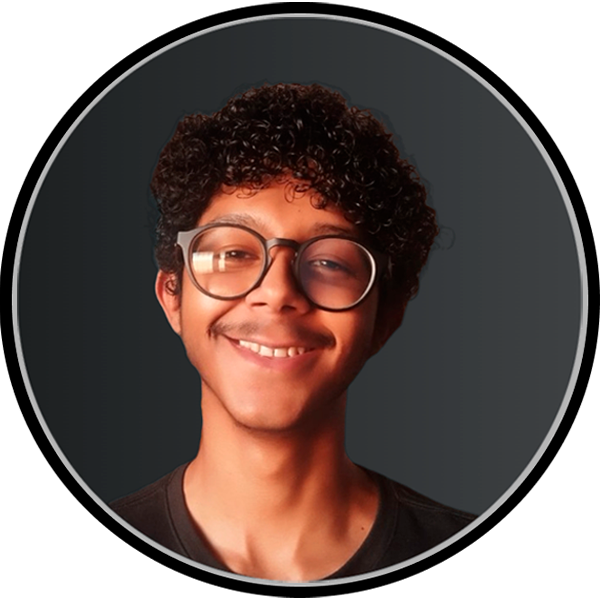
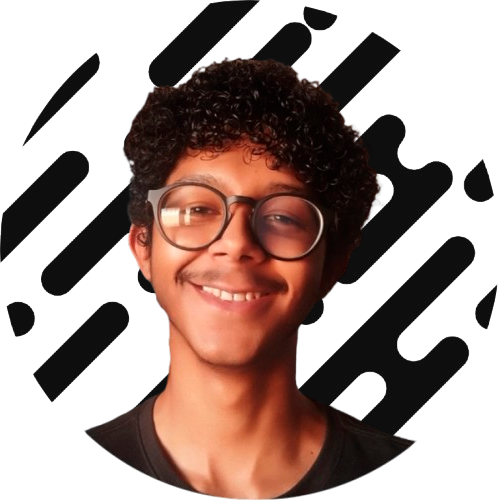
att

diff --git a/styles/style.css b/styles/style.css
@@ -14,7 +14,7 @@
 }
 
 body {
-    background: rgb(255, 255, 255);
+    background: var(--cor-branco);
     overflow-x: hidden; 
     position: relative;
 }
@@ -22,7 +22,7 @@ body {
 .cabecalho{
     padding: 1% 0% 1% 0% ;
     background: var(--cor-preto);
-    border-bottom: 4px solid var(--cor-cinza-escuro);
+    border-bottom: 4px solid var(--cor-preto);
     position: fixed;
     top: 0;
     z-index: 1000;
@@ -90,15 +90,15 @@ body {
     font-weight: 400;
 }
 .conteudo__home{
-    background: rgb(0,0,0);
-    background: linear-gradient(240deg, rgba(0,0,0,1) 0%, rgba(78,78,78,1) 25%, rgba(217,217,217,1) 50%, rgba(78,78,78,1) 75%, rgba(0,0,0,1) 100%);
-    padding: 5% 7% 12% 7%;
+    background: rgb(250,251,255);
+    background: radial-gradient(circle, rgba(250,251,255,1) 0%, rgba(232,232,232,1) 43%, rgba(150,150,150,1) 100%);
+    padding: 7% 0 12% 0;
     display: flex;
     align-items: center;
-    justify-content: space-between;
+    justify-content: center;
     border-bottom: 6px solid var(--cor-preto);
     position: relative;
-    color: var(--cor-branco);
+    color: var(--cor-preto);
 }
 
 .foco {
@@ -108,10 +108,11 @@ body {
     display: flex;
     flex-direction: column;
     justify-content: center;
+    padding: 4% 15% 0 0%;
     width: 50%;
 }
 .home__titulo {
-    font-size: 6rem;
+    font-size: 9rem;
     font-weight: 700;
     margin-top: 0.5rem;
 }
@@ -121,9 +122,9 @@ body {
     padding: 0 0 0 2.5%;
 }
 .home__descricao {
-    font-size: 1.5rem;
-    padding: 3% 0 0 2.5%;
-    margin-top: 1.5rem;
+    font-size: 1.2rem;
+    padding: 0% 10% 0 2.5%;
+    margin-top: 1rem;
     letter-spacing: 0.1rem;
 }
 .home__contatos {
@@ -143,26 +144,22 @@ body {
     transform: scale(1.15);
     transition: 0.1s;
 }
+.home__texto {
+    padding-left: 10%;
+}
 .home__foto {
-    width: 35%;
-    -webkit-filter: grayscale(100%);
-    filter: grayscale(100%);
-    transition: filter 0.5s ease;
-    padding-top: 5%;
+    display: none;
 }
-.home__foto:hover {
-    transition: 5s;   
-    -webkit-filter: grayscale(0%); 
-    filter: grayscale(0%); 
-    transition: filter 0.5s ease;
-}
+
 
 
 
 .sobre-mim {
-    padding: 2% 10% 4% 10%;
+    padding: 8% 10% 8% 10%;
     background: var(--cor-branco);
     display: flex;
+    justify-content: center;
+    flex-direction: row;
     gap: 7rem;  
 }
 .sobre-mim__conteudo {
@@ -178,8 +175,14 @@ body {
     font-size: 3.5rem;
     font-weight: 700;
 }
+.minha__foto {
+    width: 40%;
+    height: 50%;
+    -webkit-filter: grayscale(20%);
+    padding-top: 4% 0 1% 0;
+}
 .sobre-mim__texto {
-    font-size: 1.5rem;
+    font-size: 1.25rem;
     padding: 0 0 0 2.5%;
     margin-top: 1rem;
     align-self: center;
@@ -191,6 +194,7 @@ body {
     width: 50%;
     object-fit: contain;
     padding-bottom: 9rem ;
+    display: none;
 }
 .ocultar__texto{
     border: #0D0D0D solid 2px;
@@ -302,15 +306,11 @@ body {
     border-radius: 2%;    
     width: 20rem;
     height: 40em;
-    -webkit-filter: grayscale(100%);
-    filter: grayscale(100%);
     margin-top: 3rem;
 }
 .cards:hover{
     transform: scale(1.1);
-    transition: 0.5s;   
-    -webkit-filter: grayscale(0%); 
-    filter: grayscale(0%); 
+    transition: 0.5s;  
 }
 .card__imagem {
     padding: 2.5rem;
@@ -383,7 +383,7 @@ body {
 .rodape__titulo {
     font-size: 2.2rem;
     font-weight: 500;
-    letter-spacing: 0.4rem;
+    letter-spacing: 0.4rem; 
 }
 .contatos__icones {
     display: flex;
@@ -435,6 +435,7 @@ body {
         gap: 4rem;
     }
     .home__foto {
+        display: block;
         padding: 25% 0 0 0;
         width: 50%;
     }
@@ -611,9 +612,13 @@ body {
         padding: 0 60% 5% 0;
     }
     .sobre-mim__foto {
+        display: block;
         width: 100%;
         padding: 0% 0 15% 0; 
         margin: 0;
+    }
+    .minha__foto {
+        display: none;
     }
     .ocultar__texto {
         width: 10rem;  
@@ -639,7 +644,7 @@ body {
     }
 
     .cards {
-        width:  17rem;
+        width: 17rem;
         height: 40rem;
         
     }

diff --git a/index.html b/index.html
@@ -44,11 +44,14 @@
                         <li class="contatos__item"><a href="https://drive.google.com/uc?export=download&id=1f7ZDanK6AZ9_0FNxousy-qCqhjuCeL44" ><img class="home__imagem" src="imagens/curriculo.png" alt="link do curriculo"></a></li>
                     </ul>
                 </h1>
-                <p class="home__descricao">Atualmente cursando Análise e Desenvolvimento de Sistemas e me aperfeiçoando <br>atraves de cursos complementares. <br>Com conhecimentos nas tecnologias <strong class="foco">Java</strong>, <strong class="foco">Python</strong>, <strong class="foco">JavaScript</strong>, <strong class="foco">HTML</strong> e <strong class="foco">CSS</strong>. <br>Estou buscando atuar me especializar na área. <br>Vamos conversar?</p>    
+                <div class="home__texto" >
+                    <p class="home__descricao">Atualmente cursando Análise e Desenvolvimento de Sistemas e me aperfeiçoando <br>atraves de cursos complementares. <br>Com conhecimentos nas tecnologias <strong class="foco">Java</strong>, <strong class="foco">Python</strong>, <strong class="foco">JavaScript</strong>, <strong class="foco">HTML</strong> e <strong class="foco">CSS</strong>. <br>Estou buscando atuar me especializar na área. <br>Vamos conversar?</p>    
+                </div>
             </div>
-            <img class="home__foto efeite-reveal" src="imagens/foto.png" alt="foto minha">
+            <img class="home__foto efeite-reveal" src="imagens/foto-1.png" alt="foto minha">
         </section>
         <section class="sobre-mim efeite-reveal" id="sobre-mim">
+            <img class="minha__foto efeite-reveal" src="imagens/foto.png" alt="foto minha">
             <img class="sobre-mim__foto" src="imagens/programando.png" alt="programando">
             <div class="sobre-mim__conteudo">
                 <h2 class="sobre-mim__titulo">Sobre mim</h2>
